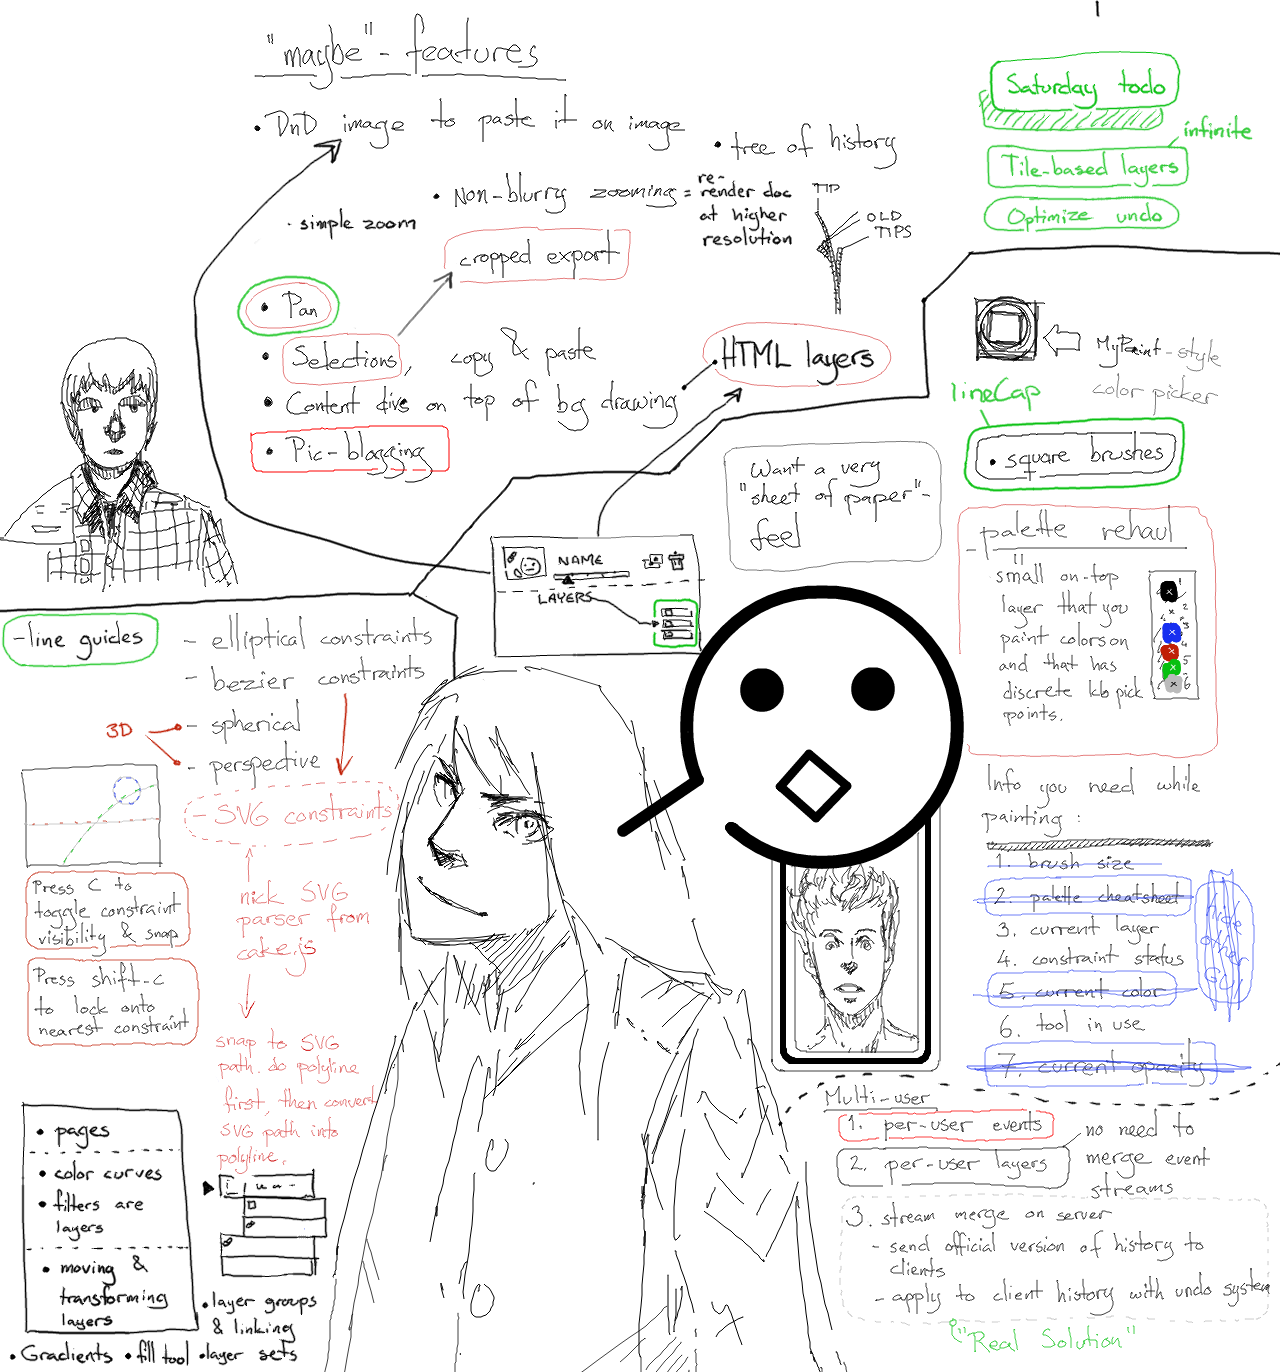
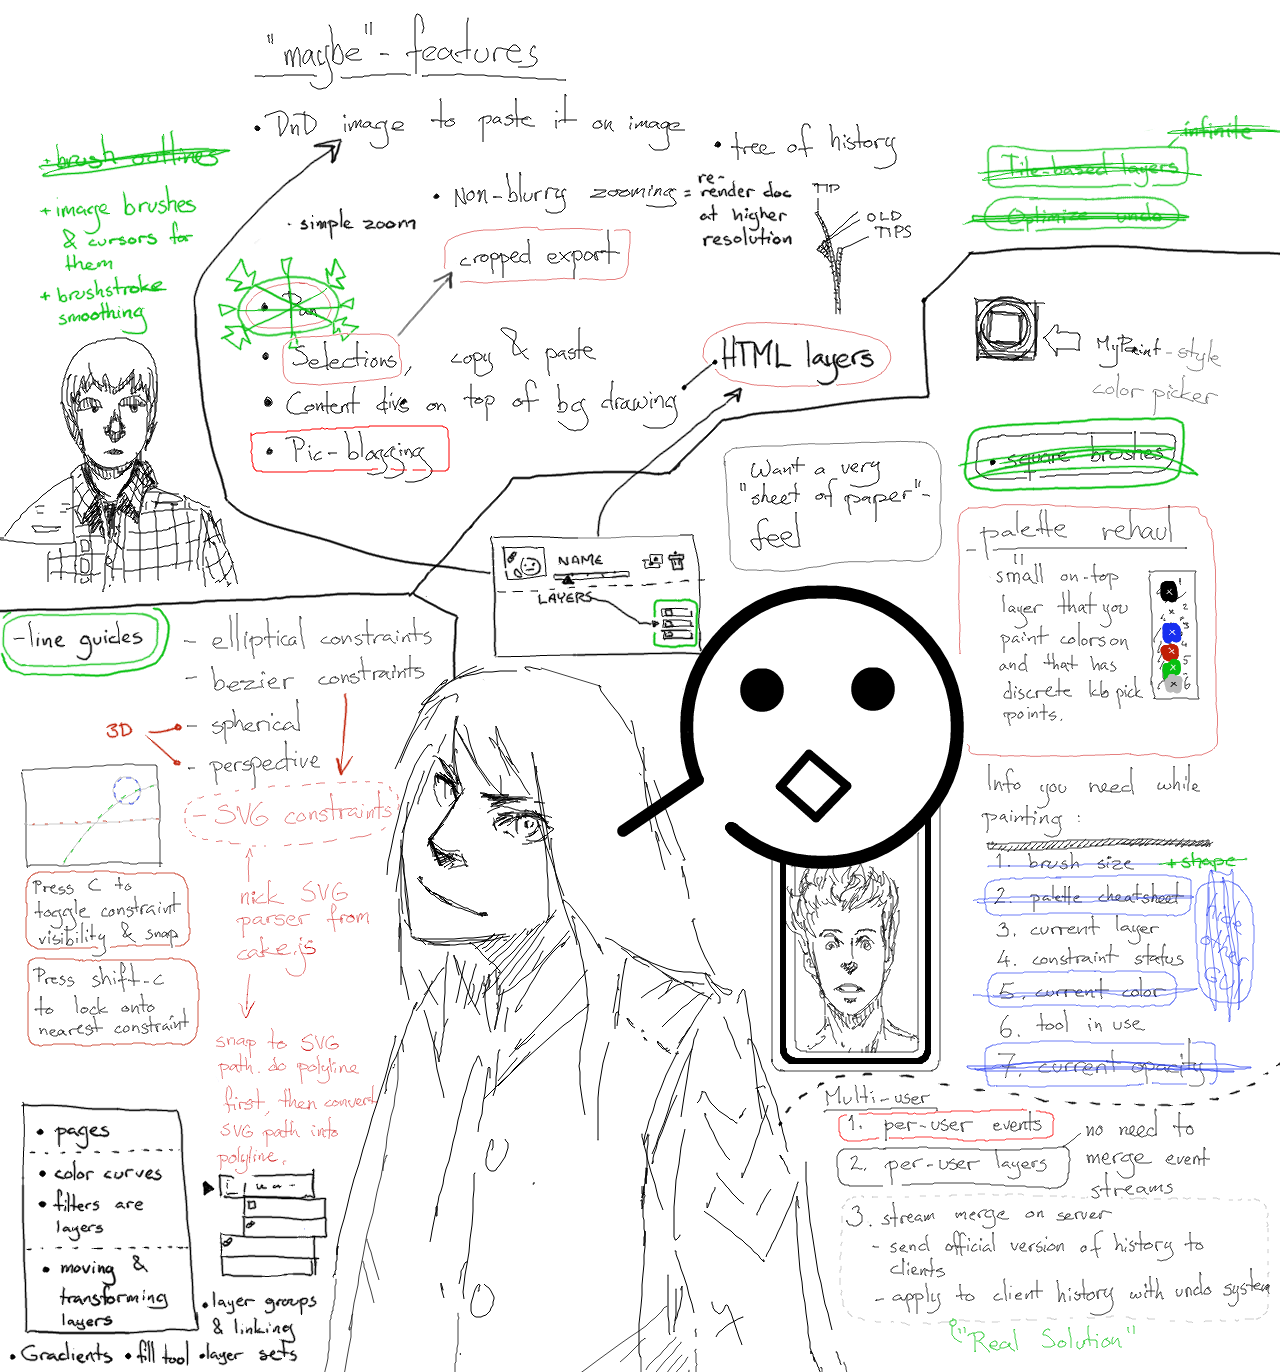
press space and move mouse to pan, fix tile indexing bug with negative idxs

diff --git a/scribble.js b/scribble.js
@@ -7,6 +7,7 @@ Scribble = Klass(Undoable, ColorUtils, {
     opacityUp: ['w','o'],
     opacityDown: ['s','l'],
     clear : [Key.DELETE, Key.BACKSPACE],
+    pan : [Key.SPACE],
     undo: ['z', 'n'],
     nextBrush: ['t','y'],
     previousBrush: ['g','h'],
@@ -16,6 +17,10 @@ Scribble = Klass(Undoable, ColorUtils, {
     toggleUI: [Key.TAB, '0'],
     toggleHelp: [191] // question mark
   },
+
+  panX : 0,
+  panY : 0,
+  zoom : 1,
 
   lineWidth : 1,
   opacity : 1,
@@ -68,6 +73,8 @@ Scribble = Klass(Undoable, ColorUtils, {
     this.ctx.save();
       this.ctx.fillStyle = this.colorToStyle(this.background);
       this.ctx.fillRect(0,0,this.width,this.height);
+      this.ctx.translate(this.panX, this.panY);
+      this.ctx.scale(this.zoom, this.zoom);
       for (var i=0; i<this.layers.length; i++) {
         this.layers[i].applyTo(this.ctx, this.width, this.height);
       }
@@ -266,6 +273,8 @@ Scribble = Klass(Undoable, ColorUtils, {
 
     this.listeners['mousemove'] = function(ev) {
       draw.current = Mouse.getRelativeCoords(draw.canvas, ev);
+      if (draw.panning)
+        draw.keepPanning();
       if (draw.resizingBrush) {
         draw.keepResizingBrush();
       } else {
@@ -331,6 +340,8 @@ Scribble = Klass(Undoable, ColorUtils, {
     this.listeners['touchmove'] = function(ev) {
       if (ev.touches.length == 1) {
         draw.current = Mouse.getRelativeCoords(draw.canvas, ev.touches[0]);
+        if (draw.panning)
+          draw.keepPanning();
         if (draw.resizingBrush) {
           draw.keepResizingBrush();
         } else {
@@ -409,6 +420,9 @@ Scribble = Klass(Undoable, ColorUtils, {
         if (Key.match(ev, draw.keyBindings.brushResize)) {
           draw.startResizingBrush();
 
+        } else if (Key.match(ev, draw.keyBindings.pan)) {
+          draw.startPanning();
+
         } else if (Key.match(ev, draw.keyBindings.undo)) {
           if (ev.shiftKey)
             draw.redo();
@@ -429,6 +443,9 @@ Scribble = Klass(Undoable, ColorUtils, {
       if (!ev.altKey && !ev.ctrlKey) {
         if (Key.match(ev, draw.keyBindings.clear)) {
           draw.clear();
+
+        } else if (Key.match(ev, draw.keyBindings.pan)) {
+          draw.stopPanning();
 
         } else if (Key.match(ev, draw.keyBindings.toggleUI)) {
           draw.toggleUI();
@@ -503,6 +520,38 @@ Scribble = Klass(Undoable, ColorUtils, {
 
   brushSizeDown : function() {
     this.setLineWidth(Math.clamp(this.lineWidth/1.5, this.minimumBrushSize, this.maximumBrushSize));
+  },
+
+
+  // Panning
+
+  startPanning : function() {
+    if (this.panning) return;
+    this.panning = true;
+    this.panStart = this.current;
+  },
+
+  keepPanning : function() {
+    if (!this.panning) return;
+    var dx = this.current.x - this.panStart.x;
+    var dy = this.current.y - this.panStart.y;
+    this.panStart = this.current;
+    this.pan(dx,dy);
+  },
+
+  stopPanning : function() {
+    if (!this.panning) return;
+    this.panning = false;
+    var dx = this.current.x - this.panStart.x;
+    var dy = this.current.y - this.panStart.y;
+    this.panStart = null;
+    this.pan(dx,dy);
+  },
+
+  pan : function(dx, dy) {
+    this.panX += dx;
+    this.panY += dy;
+    this.requestRedraw();
   },
 
 
@@ -618,24 +667,43 @@ Scribble = Klass(Undoable, ColorUtils, {
     this.requestRedraw();
   },
 
+  panPoint : function(p) {
+    var np = Object.extend({}, p);
+    np.x -= this.panX;
+    np.y -= this.panY;
+    np.r = this.lineWidth/2;
+    if (this.pressureControlsSize)
+      np.r *= np.pressure;
+    if (this.pressureControlsOpacity)
+      np.opacity *= np.pressure;
+    np.absolute = true;
+    return np;
+  },
+
   drawPoint : function(xy) {
     if (!this.strokeInProgress) return;
+    if (!xy.absolute)
+      xy = this.panPoint(xy);
     this.brush.drawPoint(
       this.strokeLayer, this.colorStyle,
-      xy.x, xy.y, this.lineWidth/2
+      xy.x, xy.y, xy.r
     );
     this.addHistoryState({methodName: 'drawPoint', args:[xy]});
     this.requestRedraw();
   },
 
-  drawLine : function(prev, current) {
+  drawLine : function(a, b) {
     if (!this.strokeInProgress) return;
+    if (!a.absolute)
+      a = this.panPoint(a);
+    if (!b.absolute)
+      b = this.panPoint(b);
     this.brush.drawLine(
       this.strokeLayer, this.colorStyle,
-      prev.x, prev.y, this.lineWidth/2,
-      current.x, current.y, this.lineWidth/2
+      a.x, a.y, a.r,
+      b.x, b.y, b.r
     );
-    var s = {methodName: 'drawLine', args:[prev, current]}
+    var s = {methodName: 'drawLine', args:[a, b]}
     this.addHistoryState(s);
     this.requestRedraw();
   },

diff --git a/layers.js b/layers.js
@@ -1,5 +1,7 @@
 Layer = Klass({
   display : true,
+  x : 0,
+  y : 0,
   opacity : 1,
   zIndex : 0,
   globalAlpha : 1,
@@ -154,37 +156,29 @@ TiledLayer = Klass(Layer, {
   },
 
   drawImage: function(img, x, y) {
-    var tx = Math.floor(x / this.tileSize);
-    var ty = Math.floor(y / this.tileSize);
+    var ftx = Math.floor(x / this.tileSize);
+    var fty = Math.floor(y / this.tileSize);
     var ltx = Math.floor((x+img.width) / this.tileSize);
     var lty = Math.floor((y+img.height) / this.tileSize);
-    var ox = x - tx*this.tileSize;
-    var oy = y - ty*this.tileSize;
-    while (tx <= ltx) {
-      var oy2 = oy;
-      var ty2 = ty;
-      while (ty2 <= lty) {
+    for (var tx=ftx; tx <= ltx; tx++) {
+      for (var ty=fty; ty <= lty; ty++) {
         // optimize: skip if img is transparent here
-        var ctx = this.getTileCtx(tx,ty2);
+        var ctx = this.getTileCtx(tx,ty);
         ctx.globalAlpha = this.globalAlpha;
-        ctx.drawImage(img,ox,oy2);
-        ty2++;
-        oy2 -= this.tileSize;
+        ctx.drawImage(img,x-tx*this.tileSize,y-ty*this.tileSize);
       }
-      tx++;
-      ox -= this.tileSize;
     }
   },
 
   getTile : function(x,y, create) {
-    var p=x | (y << 16);
+    var p=((x + 0x8000) & 0xffff) | (((y + 0x8000) & 0xffff) << 16);
     var t=this.tiles;
     var c=t[p];
     if (create && (c == null || c.snapshotted)) {
       var nc = {
         canvas: E.canvas(this.tileSize, this.tileSize),
         x: x, y: y, snapshotted: false,
-        useNewPath: true, hasNewPath: false
+        useNewPath: true
       };
       if (c && c.snapshotted) {
         var ctx = nc.canvas.getContext('2d');

diff --git a/index.html b/index.html
@@ -297,6 +297,7 @@
       <p>t and g to change brush (y and h)</p>
       <p>shift draws with constraints</p>
       <p>shift-click does straight lines</p>
+      <p>space pans the canvas</p>
       <p>z is undo (n)</p>
       <p>shift-z is redo (shift-n)</p>
       <p>alt-z is smooth undo (alt-n)</p>
